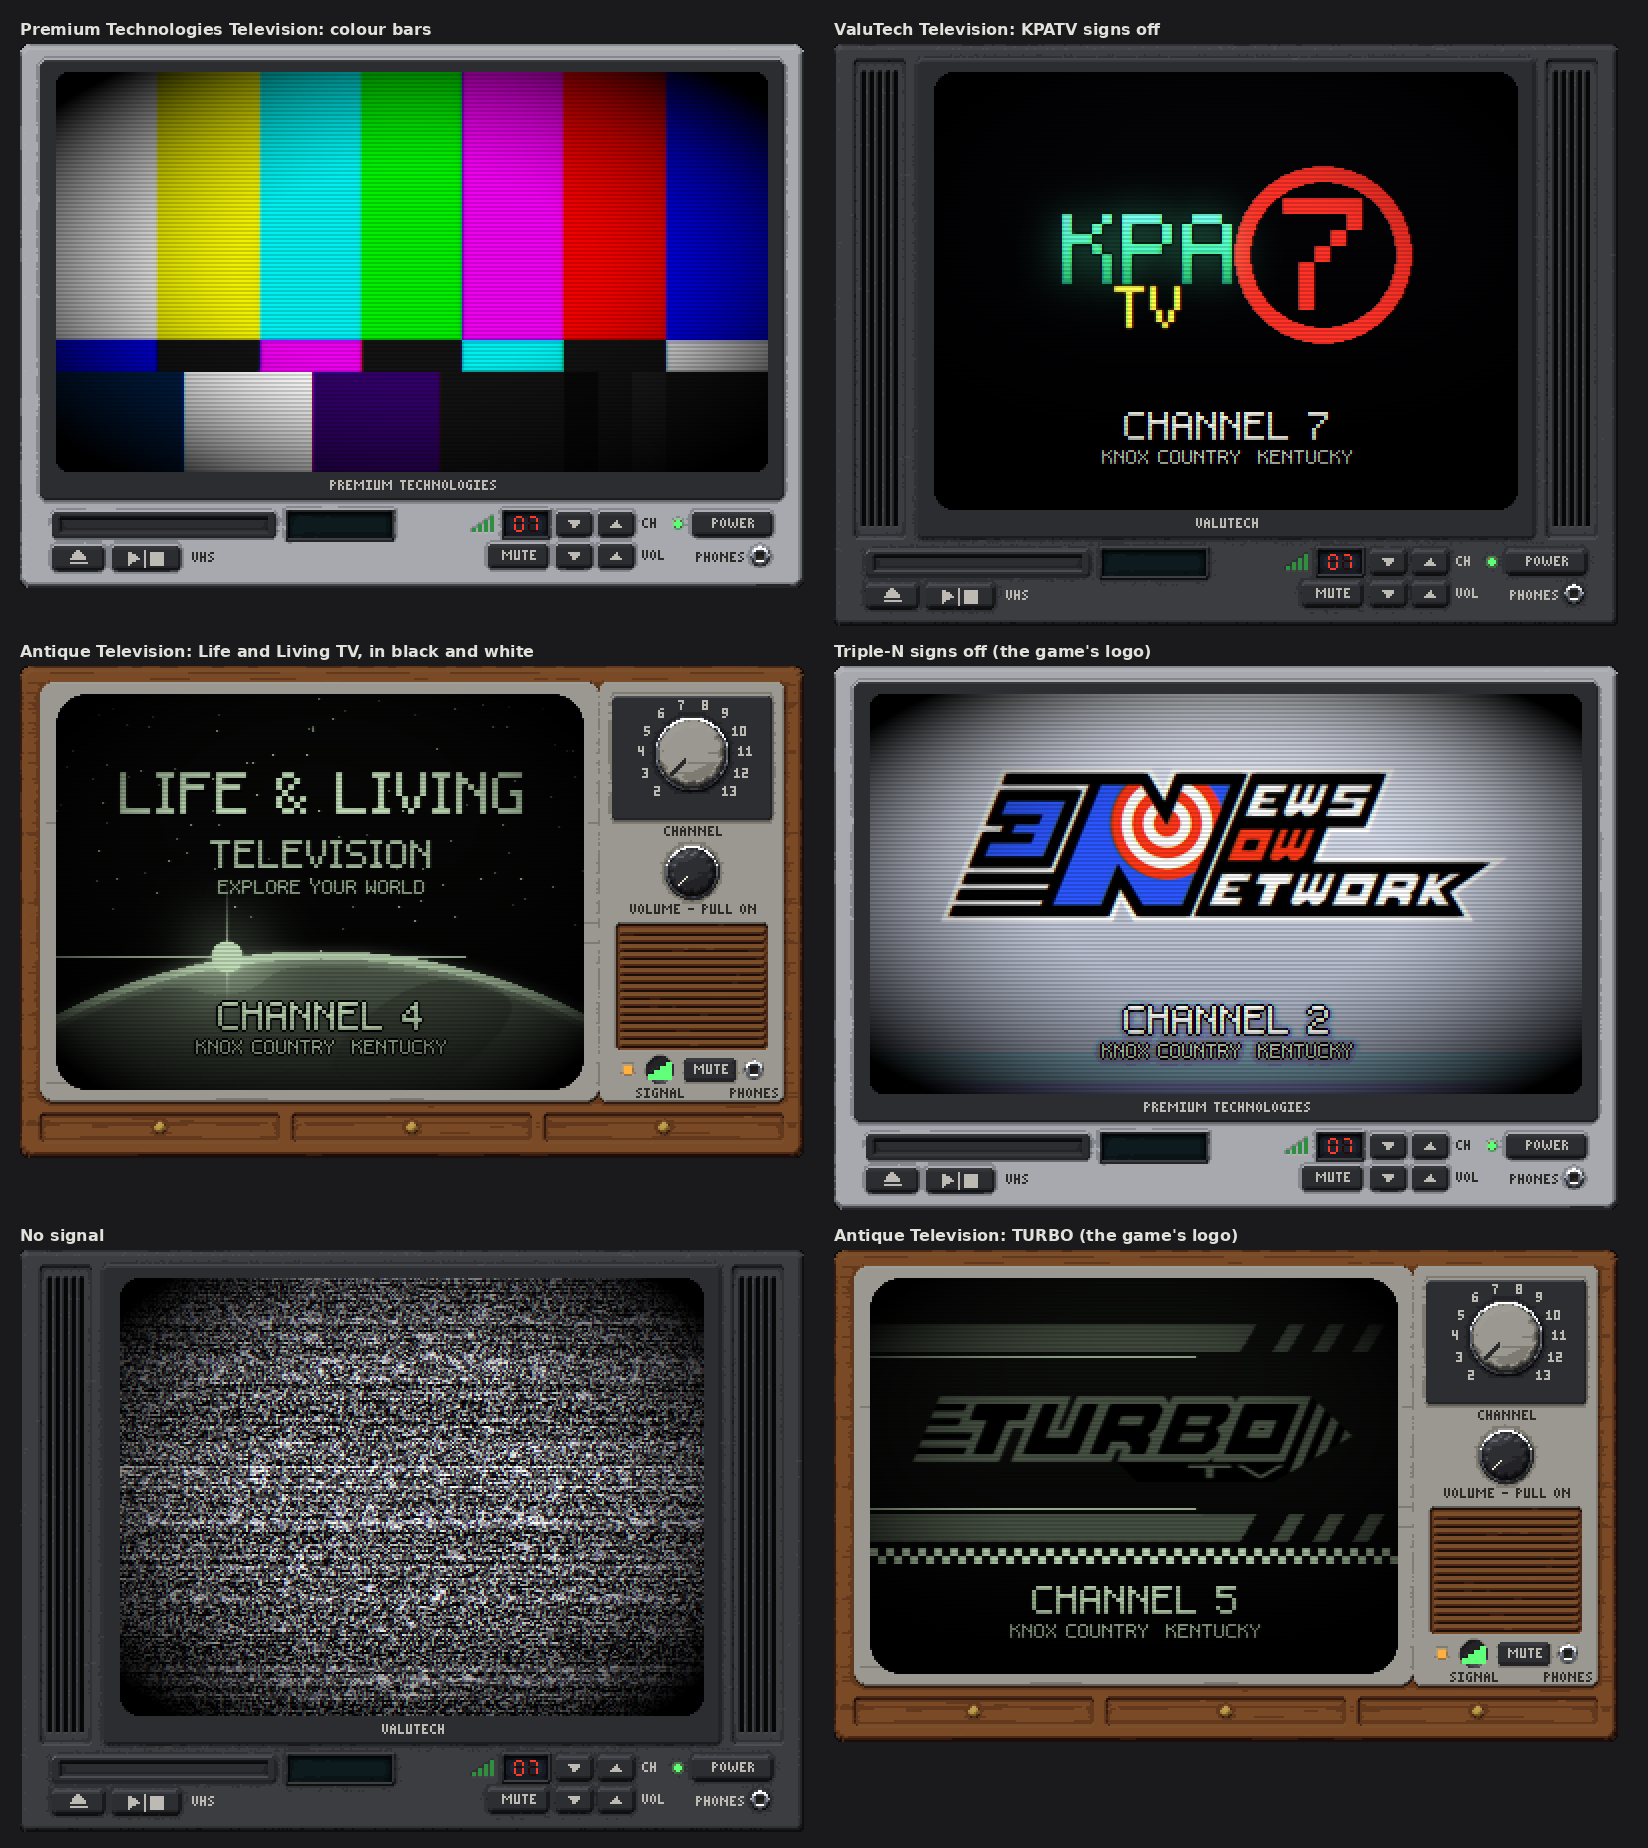
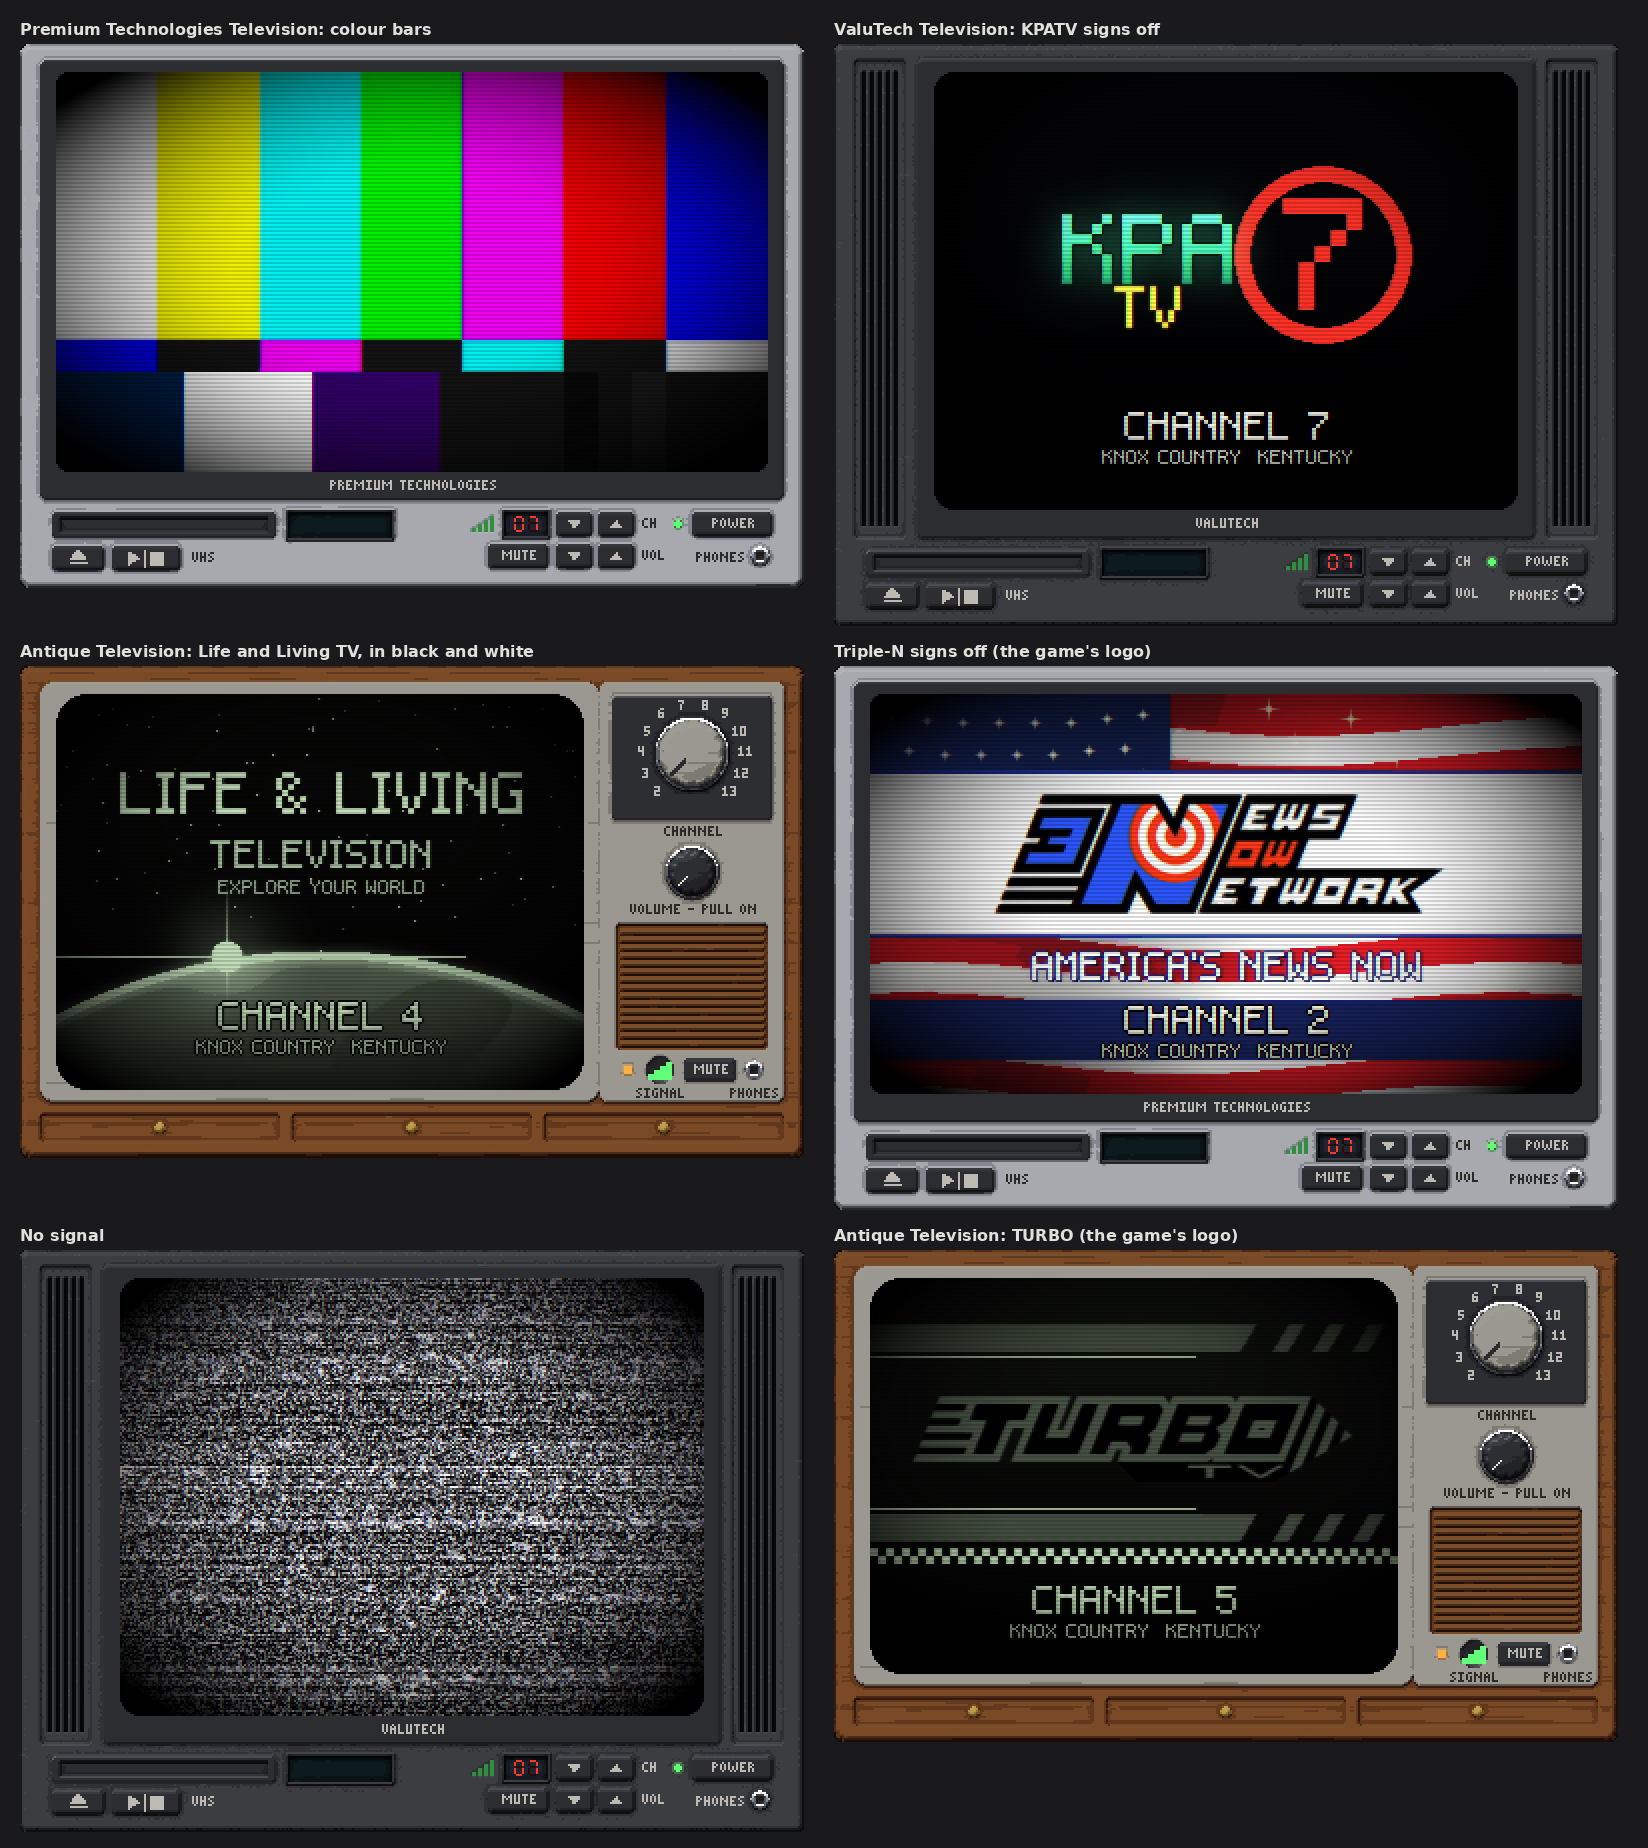
Design: Triple-N card with more America
Director: 3N needs more America. The flag waving full-screen behind (stripes,
star field, the cloth's ripple and shade), the game's 3N logo on a white band
across it, fireworks glints, AMERICA'S NEWS NOW, a navy bar under the footer.

Claude-Session: https://claude.ai/code/session_015Lv8fXDH1kuxg46sEw6iLh

Changed region(s): [[0.5261, 0.3701, 0.9593, 0.6169]]

diff --git a/ZeDUI/tools/physpx/offair.py b/ZeDUI/tools/physpx/offair.py
@@ -36,7 +36,7 @@ COUNTY = "KNOX COUNTRY, KENTUCKY"
 # inside, keeping its shape. Triple-N's is its "3N News Now Network" (also on its van and its billboard).
 GAME_LOGOS = {"triple_n": "media/textures/printMedia/logos/ENewsNowNetwork.png",
               "turbo": "media/textures/printMedia/logos/TurboTV.png"}
-LOGO_BOX = {"triple_n": (0.10, 0.16, 0.80, 0.44), "turbo": (0.08, 0.25, 0.84, 0.32)}
+LOGO_BOX = {"triple_n": (0.12, 0.24, 0.76, 0.32), "turbo": (0.08, 0.25, 0.84, 0.32)}
 # a tint multiplied into the game's picture (the texture drawn with this colour): TURBO's orange taken to the card's red
 LOGO_TINT = {"turbo": (1.0, 0.42, 0.40)}
 GAME_ROOT = None          # where the game's media/ lives, to draw the logo into review pictures (None: leave the box empty)
@@ -232,8 +232,36 @@ def signoff(cid, w, h):
     name, ch = {c[0]: (c[1], c[2]) for c in CHANNELS}[cid]
     cx, cy = w // 2, int(h * 0.42)
     if cid == "triple_n":
-        a = card_frame(w, h, (196, 200, 210), (120, 126, 140))       # a light studio grey: the logo is drawn for paper
+        # more America (director, Oct 30 2026: "3N needs more MERICA"): the flag waving full-screen behind, the game's
+        # logo on a white band across it, fireworks glints, AMERICA'S NEWS NOW under it
+        a = blank(w, h)
+        RED, WHITE, BLUE = np.array((190, 30, 40)), np.array((240, 240, 236)), np.array((30, 50, 120))
+        yy, xx = np.mgrid[0:h, 0:w].astype(np.float32)
+        wave = np.sin(xx / w * 2 * math.pi * 1.2 + yy / h * 1.5) * h * 0.025       # the cloth's ripple
+        sh = 0.82 + 0.18 * np.cos(xx / w * 2 * math.pi * 1.2 + yy / h * 1.5)          # its light and shade
+        stripe = (((yy + wave) / (h / 13.0)).astype(int) % 2 == 0)
+        a[:] = np.where(stripe[..., None], RED, WHITE) / 255.0
+        canton = (xx < w * 0.42) & (yy + wave < h * 7 / 13.0)
+        a[canton] = BLUE / 255.0
+        a *= sh[..., None]
+        sp = max(6, int(w * 0.42 / 8))
+        for r in range(6):                                             # the stars, staggered
+            for c in range(8):
+                x = int(sp * 0.6 + c * sp + (sp // 2 if r % 2 else 0)); y = int(sp * 0.6 + r * sp * 0.85)
+                if x < w * 0.40 and y < h * 7 / 13.0 - 3:
+                    glint(a, x, int(y + np.sin(x / w * 2 * math.pi * 1.2 + y / h * 1.5) * h * 0.025), n=max(1, s // 2 + 1), rgb=(255, 255, 255))
+        fx, fy, fw, fh = LOGO_BOX[cid]                                  # the white band the logo sits on
+        by0, by1 = int(fy * h) - 2 * s, int((fy + fh) * h) + 2 * s
+        rect(a, 0, by0 - 2, w, 2, (30, 50, 120)); rect(a, 0, by1, w, 2, (30, 50, 120))
+        rect(a, 0, by0, w, by1 - by0, (246, 246, 242))
         game_logo(a, cid)
+        rng = np.random.default_rng(1776)                              # fireworks over the flag
+        for _ in range(5):
+            gx_, gy_ = int(rng.integers(w // 2, w - 8)), int(rng.integers(6, by0 - 6))
+            glint(a, gx_, gy_, n=2 + s, rgb=(255, 240, 200))
+        text(a, "AMERICA'S NEWS NOW", w // 2, by1 + 2 * s + 1, max(1, s // 2), (255, 255, 255), outline=(20, 30, 80), shadow=(10, 10, 40))
+        ss_ = max(1, s // 2)                                            # a navy bar under the footer's lines
+        rect(a, 0, int(h * 0.78) - 3, w, 8 * ss_ + 14, (24, 36, 96))
     elif cid == "wbln":
         a = card_frame(w, h, (30, 10, 10), (6, 2, 2))
         r = int(10 * s)
